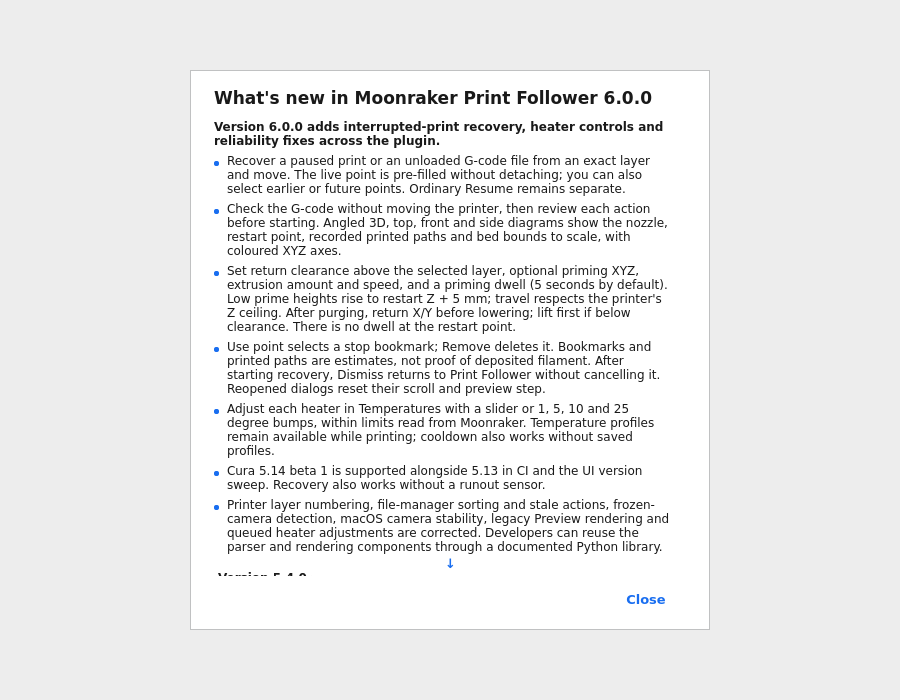
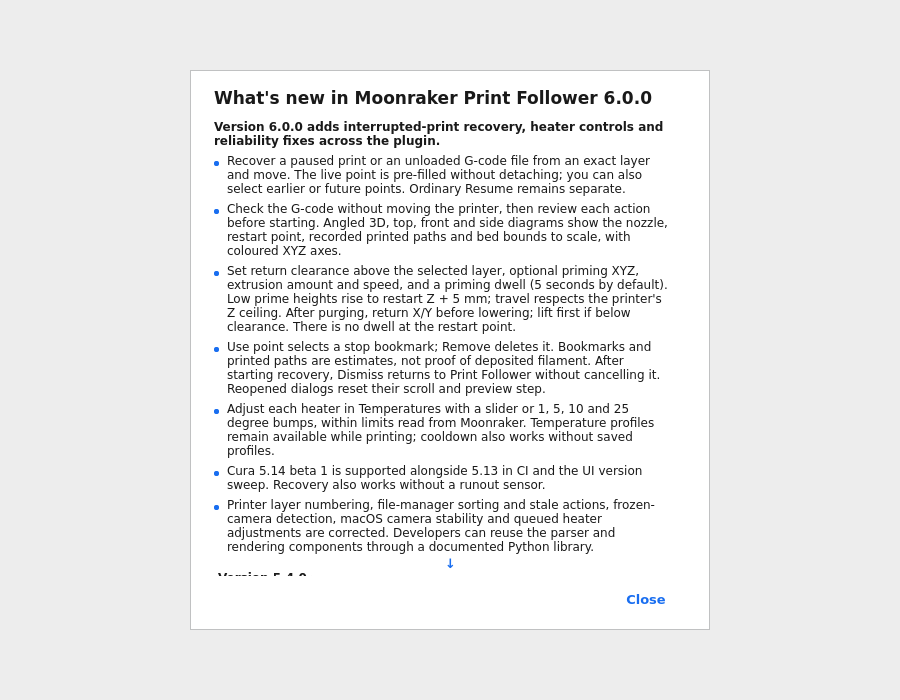
Qualify Cura beta with modern rendering without host class patches

Changed region(s): [[0.2489, 0.72, 0.7467, 0.81]]

diff --git a/tests/test_architecture.py b/tests/test_architecture.py
@@ -3,7 +3,6 @@
 # Licensed under GNU GPLv3 (version 3 only); see LICENSE.
 #
 # Selected release and Git history (newest first; original provenance retained):
-# 2026-10-19 — 6.0.0: Bound the reviewed beta colour repair to one adapter assignment.
 # 2026-10-18 — 6.0.0: Verify shared geometry and modular component ownership after extraction.
 # 2026-10-18 [b68f411] Complete print recovery controls, temperature adjustment and release documentation
 # 2026-10-13 [54a31e5] Implement interrupted print recovery handover
@@ -215,7 +214,7 @@ class SourceContractTests(unittest.TestCase):
             'ConsoleController': {'ConsolePolicy'},
             'ConsolePolicy': set(),
             'CuraAdapter': set(),
-            'CuraIntegration': {'CuraAdapter', 'CuraLifecycleBridge', 'NativeNozzleLifecycle'},
+            'CuraIntegration': {'CuraLifecycleBridge', 'NativeNozzleLifecycle'},
             'CuraLifecycleBridge': set(),
             'CuraOutputWriter': set(),
             'DownloadStream': set(),
@@ -352,7 +351,7 @@ class SourceContractTests(unittest.TestCase):
             'WhatsNewOverlay': {'PluginPaths', 'WhatsNew'},
         }
         # Cura adapters sanctioned to import cura APIs.
-        cura_exceptions = {"CuraAdapter", "CuraOutputWriter", "MoonrakerFollowerMachineAction", "MoonrakerMonitorModel", "MoonrakerOutputDevice", "PrinterBinding", "ToolheadSimulationPass"}
+        cura_exceptions = {"CuraOutputWriter", "MoonrakerFollowerMachineAction", "MoonrakerMonitorModel", "MoonrakerOutputDevice", "PrinterBinding", "ToolheadSimulationPass"}
         # The output plugin and Machine Action receive the follower at the
         # documented composition boundary; PrinterConfig and BedMeshPresenter
         # only contain the string inside preference-key literals.
@@ -378,18 +377,16 @@ class SourceContractTests(unittest.TestCase):
                 self.assertNotIn("from cura.", source, module)
 
     def test_no_monkeypatching_of_cura_or_uranium_classes(self):
-        # Public APIs remain the integration rule. One reviewed exception
-        # repairs the exact 5.14 beta 1 legacy colour-list bug, for which
-        # Cura exposes no callback. Its version/shape/idempotence contracts
-        # are executable in test_cura_adapter; no other class patch is allowed.
-        permitted = ("cura/CuraAdapter.py", "install_legacy_layer_color_fix",
-                     "LayerPolygon", "mapLineTypeToColor")
-        seen = []
+        # The architectural invariant (the review's ruling): production
+        # plugin code never assigns to methods or attributes on classes
+        # imported from Cura/Uranium — the renderer integration rides
+        # the public APIs. The retired patch module must not reappear;
+        # the nozzle lifecycle repair is the sanctioned exception, its
+        # own module, public APIs only.
         self.assertFalse((PLUGINS / "RendererAdaptation.py").is_file())
         self.assertTrue((PLUGINS / "NativeNozzleLifecycle.py").is_file())
         for path in PLUGINS.rglob("*.py"):
             tree = ast.parse(path.read_text(encoding="utf-8"), filename=path.name)
-            parents = {child: parent for parent in ast.walk(tree) for child in ast.iter_child_nodes(parent)}
             foreign = set()
             for node in ast.walk(tree):
                 if isinstance(node, ast.ImportFrom) and node.module and (
@@ -401,22 +398,12 @@ class SourceContractTests(unittest.TestCase):
                     for target in node.targets:
                         if isinstance(target, ast.Attribute) and isinstance(target.value, ast.Name) \
                                 and target.value.id in foreign:
-                            owner = parents.get(node)
-                            while owner is not None and not isinstance(owner, ast.FunctionDef):
-                                owner = parents.get(owner)
-                            candidate = (path.relative_to(PLUGINS.root).as_posix(),
-                                         owner.name if owner is not None else "", target.value.id, target.attr)
-                            if candidate == permitted:
-                                seen.append(candidate)
-                                continue
                             self.fail(f"{path.name}: assigns to the Cura/Uranium class "
                                       f"{target.value.id}.{target.attr} — the public-API-only invariant")
                 if isinstance(node, ast.Call) and isinstance(node.func, ast.Name) \
                         and node.func.id == "setattr" and node.args \
                         and isinstance(node.args[0], ast.Name) and node.args[0].id in foreign:
                     self.fail(f"{path.name}: setattr on the Cura/Uranium class {node.args[0].id}")
-
-        self.assertEqual(seen, [permitted])
 
     def test_local_import_graph_is_acyclic(self):
         def dependencies(path):

diff --git a/tests/test_cura_adapter.py b/tests/test_cura_adapter.py
@@ -3,7 +3,7 @@
 # Licensed under GNU GPLv3 (version 3 only); see LICENSE.
 #
 # Selected Git history (newest first; oldest and latest two content changes):
-# 2026-10-19 — 6.0.0: Repair list-backed layer colours in Cura 5.14 beta 1 legacy rendering.
+# 2026-10-19 — 6.0.0: Retain public host APIs without a beta class-method workaround.
 # 2026-10-01 [d8cf321] Revert "mpf's subpackages are capitalised"
 # 2026-09-30 [f425547] mpf's subpackages are capitalised
 # 2026-09-04 [a99637b] Update to v1.1.0.
@@ -117,59 +117,6 @@ class PreviewViewAccessorTests(unittest.TestCase):
         self.assertEqual(view.minimum, 0)
         set_preview_path(object(), 1.0)  # no setPath: no-op
 
-
-class LegacyLayerColorTests(unittest.TestCase):
-    def _install(self, polygon_type, version="5.14.0-beta.1"):
-        from types import SimpleNamespace
-        from unittest.mock import patch
-        import sys
-        with patch.dict(sys.modules, {
-                "cura.CuraVersion": SimpleNamespace(CuraVersion=version),
-                "cura.LayerPolygon": SimpleNamespace(LayerPolygon=polygon_type)}):
-            return MODULE.install_legacy_layer_color_fix()
-
-    def test_ragged_beta_colours_keep_numpy_selection_shapes(self):
-        import numpy as np
-        from types import SimpleNamespace
-        class Polygon:
-            def mapLineTypeToColor(self, indices):
-                return self._color_map[indices][0]
-        # Attribute colours have different variant counts per line type.
-        palette = [[(1., 0., 0., 1.)], [(0., 1., 0., 1.), (1., 1., 0., 1.)]]
-        polygon = Polygon()
-        polygon._color_map = palette
-        with self.assertRaises(TypeError):
-            polygon.mapLineTypeToColor(np.array([0, 1]))
-        self.assertTrue(self._install(Polygon))
-        method = Polygon.mapLineTypeToColor
-        self.assertFalse(self._install(Polygon))
-        self.assertIs(Polygon.mapLineTypeToColor, method)
-        for indices, shape in ((np.array([1, 0]), (2, 4)),
-                               (np.array([[0], [1]]), (2, 1, 4)),
-                               (np.array([], dtype=int), (0, 4)),
-                               (np.int64(1), (4,))):
-            with self.subTest(shape=shape):
-                colors = polygon.mapLineTypeToColor(indices)
-                self.assertEqual(colors.shape, shape)
-                np.testing.assert_array_equal(colors, np.asarray([p[0] for p in palette])[indices])
-        with self.assertRaises(IndexError):
-            polygon.mapLineTypeToColor(np.array([.5]))
-        # Existing array-backed paths are delegated, not reinterpreted.
-        sentinel = SimpleNamespace(_color_map=np.zeros((2, 4)))
-        self.assertEqual(method(sentinel, 1), 0.)
-
-    def test_other_versions_and_missing_cura_keep_the_original_method(self):
-        from unittest.mock import patch
-        import sys
-        class Polygon:
-            def mapLineTypeToColor(self, _indices):
-                return "original"
-        original = Polygon.mapLineTypeToColor
-        for version in ("5.13.0", "5.14.0", "5.14.0-beta.2"):
-            self.assertFalse(self._install(Polygon, version))
-            self.assertIs(Polygon.mapLineTypeToColor, original)
-        with patch.dict(sys.modules, {"cura.CuraVersion": None}):
-            self.assertFalse(MODULE.install_legacy_layer_color_fix())
 
 if __name__ == "__main__":
     unittest.main()

diff --git a/tests/harness/test_harness_runner.py b/tests/harness/test_harness_runner.py
@@ -3,6 +3,7 @@
 # Licensed under GNU GPLv3 (version 3 only); see LICENSE.
 #
 # Selected Git history (newest first; oldest and latest two content changes):
+# 2026-10-19 — 6.0.0: Rehearse the beta-only modern renderer preference seed.
 # 2026-10-18 — 6.0.0: Keep invalid inline probe serialization visible.
 # 2026-10-18 — 6.0.0: Prove bounded RPCs, no command replay and crash evidence finalization.
 # 2026-10-18 — 6.0.0: Prove failed startup stops scenarios and keeps its gallery.
@@ -1748,6 +1749,35 @@ class CaptureGateTests(unittest.TestCase):
         self.assertNotIn("export HARNESS_CAPTURE='off'", script)
         self.assertIn("export HARNESS_CAPTURE_REASON=%q", script)
         self.assertIn("${HARNESS_CAPTURE_REASON:-}", script)
+
+    @unittest.skipUnless(sys.platform != "win32" and shutil.which("bash") and shutil.which("awk"),
+                         "macOS config seed requires bash and awk")
+    def test_macos_beta_modern_context_seed_preserves_other_versions_and_preferences(self):
+        import configparser
+        import subprocess
+        import tempfile
+        script = (ROOT / "tools/native_harness.sh").read_text(encoding="utf-8")
+        start = script.index('    awk -v ver="$PREF_VER"')
+        end = script.index('    mv "$CONFIG_DIR_FILE.tmp"', start)
+        seed = script[start:end]
+        fixture = (ROOT / "tests/harness/config/config/cura/5.13/cura.cfg").read_text()
+        for version in ("5.13.0", "5.14.0-beta.1", "5.14.0-beta.2", "5.14.0"):
+            with self.subTest(version=version), tempfile.TemporaryDirectory() as temp:
+                path = Path(temp) / "cura.cfg"
+                # An existing value must be replaced once, not duplicated.
+                path.write_text(fixture.replace("[view]", "[view]\nopengl_version_detect = automatic"))
+                env = dict(os.environ, CURA_VERSION=version, CONFIG_DIR_FILE=str(path),
+                           PREF_VER="7", IDS="network-plugin", MACHINE="Seeded printer")
+                done = subprocess.run(["bash", "-eu", "-c", seed], env=env,
+                                      capture_output=True, text=True, timeout=10)
+                self.assertEqual(done.returncode, 0, done.stderr)
+                parsed = configparser.ConfigParser()
+                parsed.read(str(path) + ".tmp")
+                self.assertEqual(parsed["view"]["opengl_version_detect"],
+                                 "force_modern" if version == "5.14.0-beta.1" else "automatic")
+                self.assertEqual(parsed["cura"]["active_machine"], "Seeded printer")
+                self.assertEqual(parsed["general"]["disabled_plugins"], "network-plugin")
+                self.assertEqual(parsed["moonrakerprintfollower"]["printer_configs_migrated_v1"], "True")
 
     @unittest.skipUnless(sys.platform != "win32" and shutil.which("bash"), "macOS shell harness requires bash")
     def test_native_harness_refuses_non_disposable_host_before_mutation(self):

diff --git a/mpf/cura/CuraAdapter.py b/mpf/cura/CuraAdapter.py
@@ -3,7 +3,7 @@
 # Licensed under GNU GPLv3 (version 3 only); see LICENSE.
 #
 # Selected Git history (newest first; oldest and latest two content changes):
-# 2026-10-19 — 6.0.0: Repair list-backed layer colours in Cura 5.14 beta 1 legacy rendering.
+# 2026-10-19 — 6.0.0: Retain public host APIs without a beta class-method workaround.
 # 2026-09-16 [ada1bfb] 4.3.0: remove the follow render pass, restore the native nozzle lifecycle
 # 2026-09-16 [432ed5c] 4.3.0: the follow pass rides a settings debug toggle, off for the soak
 # 2026-09-04 [a99637b] Update to v1.1.0.
@@ -117,34 +117,3 @@ def reset_preview_layer_data(view) -> None:
     claim about the renderer's per-frame allocations (the review)."""
     if view is not None and hasattr(view, "resetLayerData"):
         view.resetLayerData()
-
-
-def install_legacy_layer_color_fix() -> bool:
-    """Repair 5.14 beta 1's list-backed colours in its legacy mesh builder.
-
-    The beta changed the colour table to ragged attribute variants, but its
-    compatibility renderer still indexes that Python list with a NumPy array.
-    Use each line type's ordinary colour, preserving the old array shape.
-    Other Cura versions and array-backed polygons keep their original method.
-    """
-    try:
-        from cura.CuraVersion import CuraVersion
-        if CuraVersion != "5.14.0-beta.1":
-            return False
-        from cura.LayerPolygon import LayerPolygon
-    except ImportError:
-        return False
-    original = LayerPolygon.mapLineTypeToColor
-    if getattr(original, "_mpf_legacy_color_fix", False):
-        return False
-
-    def map_colors(polygon, line_types):
-        if isinstance(polygon._color_map, list):
-            import numpy as np
-            base_colors = np.asarray([variants[0] for variants in polygon._color_map])
-            return base_colors[line_types]
-        return original(polygon, line_types)
-
-    map_colors._mpf_legacy_color_fix = True
-    LayerPolygon.mapLineTypeToColor = map_colors
-    return True

diff --git a/mpf/whatsnew/WhatsNew.py b/mpf/whatsnew/WhatsNew.py
@@ -4,7 +4,7 @@
 #
 # Selected release and Git history (newest first; original provenance retained):
 # 2026-10-19 — 6.0.0: Describe shipped changes without claiming product finality.
-# 2026-10-19 — 6.0.0: Mention the Cura beta legacy Preview rendering repair.
+# 2026-10-19 — 6.0.0: Qualify beta support without claiming an upstream renderer repair.
 # 2026-10-18 — 6.0.0: Mention camera stability and corrected printer layer numbering.
 # 2026-10-18 — 6.0.0: Describe final recovery, temperature and whole-product reliability changes.
 # 2026-10-18 [b68f411] Complete print recovery controls, temperature adjustment and release documentation
@@ -48,7 +48,7 @@ WHATS_NEW: Tuple[dict, ...] = (
             "Use point selects a stop bookmark; Remove deletes it. Bookmarks and printed paths are estimates, not proof of deposited filament. After starting recovery, Dismiss returns to Print Follower without cancelling it. Reopened dialogs reset their scroll and preview step.",
             "Adjust each heater in Temperatures with a slider or 1, 5, 10 and 25 degree bumps, within limits read from Moonraker. Temperature profiles remain available while printing; cooldown also works without saved profiles.",
             "Cura 5.14 beta 1 is supported alongside 5.13 in CI and the UI version sweep. Recovery also works without a runout sensor.",
-            "Printer layer numbering, file-manager sorting and stale actions, frozen-camera detection, macOS camera stability, legacy Preview rendering and queued heater adjustments are corrected. Developers can reuse the parser and rendering components through a documented Python library.",
+            "Printer layer numbering, file-manager sorting and stale actions, frozen-camera detection, macOS camera stability and queued heater adjustments are corrected. Developers can reuse the parser and rendering components through a documented Python library.",
         ),
     },
     {

diff --git a/mpf/cura/CuraIntegration.py b/mpf/cura/CuraIntegration.py
@@ -3,7 +3,7 @@
 # Licensed under GNU GPLv3 (version 3 only); see LICENSE.
 #
 # Selected Git history (newest first; oldest and latest two content changes):
-# 2026-10-19 — 6.0.0: Repair list-backed layer colours in Cura 5.14 beta 1 legacy rendering.
+# 2026-10-19 — 6.0.0: Retain public host APIs without a beta class-method workaround.
 # 2026-10-06 [ab3a658] Add custom toolheads and lighting for v5.2.0
 # 2026-10-05 [228f698] Finish Preview object banners for 5.1.0
 # 2026-09-07 [29b5fc3] Replace transitional runtime layers with composed components
@@ -20,7 +20,6 @@ from PyQt6.QtCore import QObject, QTimer, QUrl, pyqtSignal
 from UM.Logger import Logger
 from UM.Backend.Backend import BackendState
 
-from .CuraAdapter import install_legacy_layer_color_fix
 from .CuraLifecycleBridge import CuraLifecycleBridge
 from .NativeNozzleLifecycle import keep_native_nozzle_visible
 
@@ -47,8 +46,6 @@ class CuraIntegration(QObject):
     def __init__(self, application, parent=None):
         super().__init__(parent)
         self.application = application
-        if install_legacy_layer_color_fix():
-            Logger.log("i", "Repaired Cura 5.14 beta 1 legacy layer colour mapping")
         self.controller = application.getController()
         self.lifecycle = CuraLifecycleBridge()
         self._connections = []

diff --git a/docs/ARCHITECTURE.md b/docs/ARCHITECTURE.md
@@ -146,7 +146,7 @@ correct package ownership.
 | `GCodeIndex.py` | One bounded G-code scan, delegating header parsing and completed-record assembly | Cache files, hydration or application orchestration |
 | `FollowController.py` | Follow-mode decisions and state precedence | Preview writes or networking |
 | `CuraIntegration.py` | Scene/view/file lifecycle, guarded callbacks and Preview API access | Printer protocol |
-| `CuraAdapter.py` | Typed Cura view access, machine identity, Preview write decisions and the bounded beta colour repair | Policy or networking |
+| `CuraAdapter.py` | Typed Cura view access, machine identity, Preview write decisions | Policy or networking |
 | `CuraLifecycleBridge.py` | Cura-scene generation tokens for stale-work rejection | Scene contents |
 | `NativeNozzleLifecycle.py` | Cura native-nozzle repair during exact following | Scene mesh semantics |
 | `PreviewFollower.py` | Frozen `PreviewState`, attachment, expected positions, path progress and ETA | Downloads or workers |
@@ -754,7 +754,7 @@ Source mesh XYZ is Z-up millimetres; its anchor is subtracted before the single
 Cura rotation (x,z,-y). Automatic alignment centres the XY bounds at minimum Z,
 including an annular nozzle face; manual XYZ or surface picking overrides it.
 
-STEP styles inherit through compound/solid/shell/face topology with instance placement, visibility and sRGB conversion. Four white sources on the top perimeter of the build volume aim 45° inward/down. View Options persists whole-model opacity as a global view preference; an independent scene-lighting uniform fades attached illumination with the same opacity without changing saved light intensities. Per-printer configuration persists up to eight attached emitters with model-local position, outward normal, RGB colour, brightness and range. Picking uses the visible surface normal and offsets the source outside the face; the shader excludes the inward hemisphere. Add/colour/brightness/remove edits share the settings Save/Cancel draft. An owned additive pass lights the native plate geometry and the visible G-code prefix using the installed SimulationView vertex/geometry sources and an owned lighting fragment. A depth prepass prevents bed illumination leaking through rendered paths. Its unchanged lower-layer depth is cached in an owned framebuffer and invalidated by camera, viewport, layer bounds, visibility filters or receiver changes; the current path prefix is drawn separately on every frame. Owned path indices are uploaded once, sharing Cura’s public cached vertex buffer. Conservative block bounds and a geometry-stage sphere check skip distant paths before tubular extrusion, and depth-only fragments skip lighting calculations. Toolhead-only position changes request cached composition without propagating scene-transform changes through Cura’s native G-code rendering. Zero opacity or disabling both receiving surfaces bypasses scene lighting entirely. Native receiver batches are retained across QtRenderer cached redraws, whose getBatches list is empty after endRendering; a full frame replaces them and scene/view/dimension changes invalidate them. Native shaders are not patched. The sole class-method compatibility exception is the version-bounded Cura 5.14 beta 1 legacy colour repair described below. Brightness uses 0–100% UI values mapped to the existing 0–5 intensity; a renderer-only draft signal gives live updates without rebuilding the lights list. The custom head crop is seeded from the owned simulation pass’s complete visible depth, including fractional paths, plus public solid batches. Transparent bed and printer-frame geometry does not write that occlusion depth. Transparent model surfaces participate alongside the bed and frame; the head depth and coverage mask preserve opaque printed paths and prevent double blending outside the head. Geometry is not excluded merely because it belongs to a sliceable model. Its native shaders blend only foreground surfaces into a separate cropped image; a premultiplied resolve preserves the head’s coverage and opacity without double-drawing those surfaces outside it. Unchanged compositions reuse the result. Matching camera, viewport, source, path and depth-format checks prevent stale occluders; cache identity includes that depth revision. Warm/native fallback frames retain the previous overlay behaviour until compatible owned depth is available. Destination depth is cleared after composition so Qt controls stay above the head; line overlays do not occlude it. The transparency helper reuses native vertex buffers and never rerenders G-code. Native True-position nozzles still use the simpler native-mesh overlay without this custom-head depth seed.
+STEP styles inherit through compound/solid/shell/face topology with instance placement, visibility and sRGB conversion. Four white sources on the top perimeter of the build volume aim 45° inward/down. View Options persists whole-model opacity as a global view preference; an independent scene-lighting uniform fades attached illumination with the same opacity without changing saved light intensities. Per-printer configuration persists up to eight attached emitters with model-local position, outward normal, RGB colour, brightness and range. Picking uses the visible surface normal and offsets the source outside the face; the shader excludes the inward hemisphere. Add/colour/brightness/remove edits share the settings Save/Cancel draft. An owned additive pass lights the native plate geometry and the visible G-code prefix using the installed SimulationView vertex/geometry sources and an owned lighting fragment. A depth prepass prevents bed illumination leaking through rendered paths. Its unchanged lower-layer depth is cached in an owned framebuffer and invalidated by camera, viewport, layer bounds, visibility filters or receiver changes; the current path prefix is drawn separately on every frame. Owned path indices are uploaded once, sharing Cura’s public cached vertex buffer. Conservative block bounds and a geometry-stage sphere check skip distant paths before tubular extrusion, and depth-only fragments skip lighting calculations. Toolhead-only position changes request cached composition without propagating scene-transform changes through Cura’s native G-code rendering. Zero opacity or disabling both receiving surfaces bypasses scene lighting entirely. Native receiver batches are retained across QtRenderer cached redraws, whose getBatches list is empty after endRendering; a full frame replaces them and scene/view/dimension changes invalidate them. Native shaders are not patched. Native Cura and Uranium classes are not patched. Brightness uses 0–100% UI values mapped to the existing 0–5 intensity; a renderer-only draft signal gives live updates without rebuilding the lights list. The custom head crop is seeded from the owned simulation pass’s complete visible depth, including fractional paths, plus public solid batches. Transparent bed and printer-frame geometry does not write that occlusion depth. Transparent model surfaces participate alongside the bed and frame; the head depth and coverage mask preserve opaque printed paths and prevent double blending outside the head. Geometry is not excluded merely because it belongs to a sliceable model. Its native shaders blend only foreground surfaces into a separate cropped image; a premultiplied resolve preserves the head’s coverage and opacity without double-drawing those surfaces outside it. Unchanged compositions reuse the result. Matching camera, viewport, source, path and depth-format checks prevent stale occluders; cache identity includes that depth revision. Warm/native fallback frames retain the previous overlay behaviour until compatible owned depth is available. Destination depth is cleared after composition so Qt controls stay above the head; line overlays do not occlude it. The transparency helper reuses native vertex buffers and never rerenders G-code. Native True-position nozzles still use the simpler native-mesh overlay without this custom-head depth seed.
 
 Scene-light receivers use the native display material: older shadowed paths use
 Cura’s grey and alpha, while current and unshadowed paths retain line colours.
@@ -2478,20 +2478,20 @@ No progress invokes the existing recovery/retry policy and removes the Live badg
 only another decoded frame clears recovery, not headers or incoming bytes.
 Bridge origins are constructed with QUrl host/port fields, preserving IPv6 literals.
 
-### Cura 5.14 beta 1 legacy layer colours
+### Cura 5.14 beta 1 renderer qualification
 
-`CuraAdapter.install_legacy_layer_color_fix` installs before file-loading workers.
-That exact beta stores attribute colour variants in a ragged Python list while
-its compatibility mesh renderer still attempts NumPy-array indexing into it.
-The adapter maps each line type to its base colour with NumPy indexing, preserving
-selection shape, and delegates array-backed maps to the original method. Installation
-is idempotent and other Cura versions retain their implementation. The native Preview
-playback gate requires nonempty legacy mesh geometry as well as completed path tracking.
+The plugin does not replace Cura or Uranium class methods. Cura 5.14 beta 1
+has two upstream legacy renderer defects: `LayerPolygon.mapLineTypeToColor`
+indexes a Python list with a NumPy array, and `MeshData.getColors` evaluates
+an array as a boolean instead of returning the colour array. The former
+workaround was removed because it could not repair the whole rendering path.
 
-This is the sole reviewed exception to the foreign-class mutation guard:
-`LayerPolygon.mapLineTypeToColor` inside that helper. Cura exposes no public
-callback for its internal legacy colour lookup, and affected OpenGL contexts
-cannot use the modern renderer. The architecture test permits only this exact
-assignment; version, shape, delegation and repeat-install tests constrain it.
-Remove the adapter when support for this beta is retired; other versions never
-receive it. Shader replacement and general renderer monkeypatching remain prohibited.
+On disposable macOS CI hosts, the harness seeds Cura's supported
+`view/opengl_version_detect = force_modern` preference for that exact beta
+and requires the resulting 4.1 core context. Software OpenGL supports this
+context, although Cura normally selects legacy mode for performance. Cura
+5.13 retains default context selection and legacy mesh coverage. Native
+Preview probes require nonempty mesh geometry when using legacy mode.
+Users of this beta's legacy renderer may encounter blank Preview geometry;
+this plugin does not repair that upstream defect or change users' graphics
+preferences.

diff --git a/README.md b/README.md
@@ -805,6 +805,12 @@ After verifying the integrated plugin with your printers, the separate Moonraker
 
 The plugin targets **Cura 5.7 / SDK 8.7** through **Cura 5.14 beta 1 / SDK 8.13**. The package declares SDK 8.7 as its minimum package SDK, and `plugin.json` records the SDKs 8.7 through 8.13 — a deliberate product boundary; the 5.7 floor is not an API dependency.
 
+Cura 5.14 beta 1 has upstream defects in its legacy Preview renderer. The
+macOS beta CI runs use Cura's supported modern OpenGL preference; Cura 5.13
+retains default-renderer coverage. The plugin does not patch Cura classes or
+change users' graphics preferences. See [renderer qualification](docs/TESTING.md)
+for this beta limitation.
+
 The implementation stays on APIs present across Cura 5.7–5.14 beta 1: Machine Actions, `globalContainerStackChanged`, public `readLocalFile()`, output devices, `NetworkMJPGImage`, SimulationView layer/path controls, and Cura's native nozzle interface. Optional conveniences are capability-checked where required.
 
 Cura 4.x / SDK 7.x is not supported, and neither is Cura 5.6 or older. On Cura 5.11 alone the preview integration is limited by a 5.11 SimulationView bug: that version rebuilds its view layers only when the Preview stage is re-entered, and the plugin's load lands while Preview is already open — so the live print does not appear in the view and the layer slider stays hidden after a load until you switch tabs and come back (the follower's card, state and pause scheduling still work throughout).

diff --git a/docs/TESTING.md b/docs/TESTING.md
@@ -417,6 +417,13 @@ The existing 5.11 loaded-toolpath limitation applies to p8 too; b12 still
 exercises its 2D follower. Static README captures deliberately hold a
 complete layer and do not claim to test smoothing.
 
+On macOS CI, Cura 5.14 beta 1 uses the supported `force_modern` OpenGL
+preference. The Apple software renderer provides a 4.1 core context, but Cura
+normally prefers legacy 2.1 for speed. This beta has two upstream legacy
+mesh/colour bugs; the plugin does not patch either host class. Cura 5.13
+retains its default renderer and the legacy nonempty-mesh assertion. Beta
+legacy Preview remains an upstream limitation, not a qualified rendering path.
+
 The current release gate uses Cura `5.14.0-beta.1` as primary and `5.13.0`
 as secondary. The UI Version Sweep includes every minor from 5.7 through
 5.13 plus 5.14 beta 1 (128 version/unit jobs).

diff --git a/CHANGELOG.md b/CHANGELOG.md
@@ -4,9 +4,10 @@ Moonraker Print Follower is licensed under the GNU General Public License versio
 
 ## 6.0.0
 
-- Repair Cura 5.14 beta 1’s legacy Preview colour lookup so loaded G-code
-  renders on compatibility OpenGL systems, including macOS software rendering.
-  Verify native mesh geometry and use an unambiguous stopped endpoint in UI tests.
+- Test Cura 5.14 beta 1 using its modern renderer on macOS CI, avoiding two
+  upstream legacy Preview defects without patching Cura classes. Retain default
+  rendering coverage on 5.13. Verify native legacy mesh geometry and use an
+  unambiguous stopped endpoint in UI tests.
 
 - Respect configured printer layer numbering when G-code contains only slicer
   layer comments. Avoid following one layer ahead on older Cura versions;
